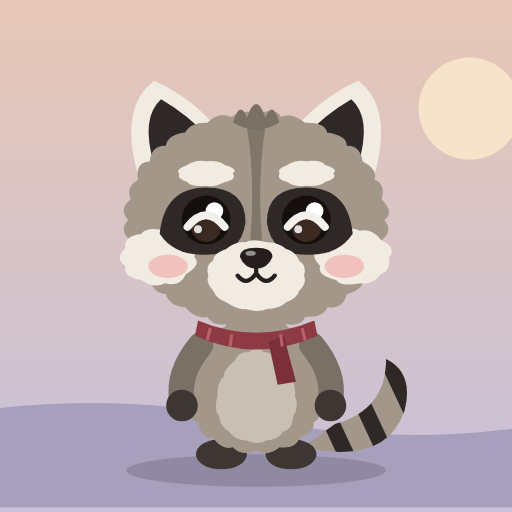
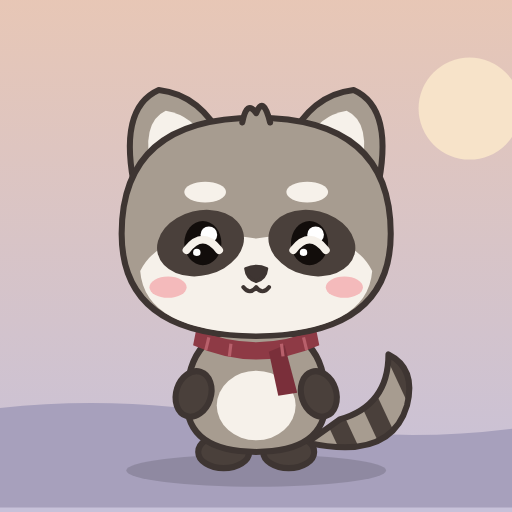
라쿤 얼굴을 만화풍으로 다시 그리기
눈을 낮고 넓게, 코와 입을 작게, 매끈한 윤곽선. 저장 키와 아이템 id는 그대로.

Claude-Session: https://claude.ai/code/session_018356KYRaA4nVB9yHaTF6Rt

Changed region(s): [[0.2188, 0.1562, 0.8125, 0.9062], [0.5312, 0.9062, 0.5938, 0.9375], [0.4062, 0.9062, 0.4688, 0.9375]]

diff --git a/index.html b/index.html
@@ -167,41 +167,40 @@ h2{font-family:var(--font-display);font-weight:400;font-size:20px;margin:0;lette
       <ellipse cx="160" cy="214" rx="56" ry="7" fill="#000" opacity=".14"/>
       <g transform="translate(60 24)"><g id="racc">
         <g class="tail-g">
-          <clipPath id="tailclip3"><path d="M120 180 Q156 188 164 164 Q168 148 156 142 Q156 164 134 170Z"/></clipPath>
-          <path d="M120 180 Q156 188 164 164 Q168 148 156 142 Q156 164 134 170Z" fill="#A39789"/>
-          <g clip-path="url(#tailclip3)" fill="#2E2826"><rect x="130" y="150" width="7" height="44" transform="rotate(-25 133 172)"/><rect x="144" y="140" width="7" height="50" transform="rotate(-25 147 165)"/><rect x="158" y="128" width="7" height="50" transform="rotate(-25 161 153)"/></g>
+          <clipPath id="tailclip4"><path d="M122 178 Q158 186 165 162 Q169 146 157 140 Q157 162 136 168Z"/></clipPath>
+          <path d="M122 178 Q158 186 165 162 Q169 146 157 140 Q157 162 136 168Z" fill="#A79C90"/>
+          <g clip-path="url(#tailclip4)" fill="#4A403B"><rect x="132" y="150" width="8" height="44" transform="rotate(-25 135 172)"/><rect x="147" y="140" width="8" height="50" transform="rotate(-25 150 165)"/><rect x="161" y="126" width="8" height="50" transform="rotate(-25 164 151)"/></g>
+          <path d="M122 178 Q158 186 165 162 Q169 146 157 140 Q157 162 136 168Z" fill="none" stroke="#3E3532" stroke-width="2.6" stroke-linejoin="round"/>
         </g>
         <g class="body-g">
-          <ellipse cx="85" cy="183" rx="11" ry="6.5" fill="#3E3633"/><ellipse cx="115" cy="183" rx="11" ry="6.5" fill="#3E3633"/>
-          <path d="M127.4 152.0 Q131.0 157.0 127.7 161.1 Q128.7 167.1 124.8 169.3 Q125.5 173.3 118.7 175.8 Q117.3 180.8 110.1 180.0 Q104.8 184.3 100.0 181.4 Q94.0 184.2 89.9 180.0 Q85.2 181.4 81.3 175.8 Q76.1 176.3 75.2 169.3 Q70.8 168.5 72.3 161.1 Q68.9 158.8 72.6 152.0 Q71.0 147.6 75.5 142.9 Q76.8 136.4 80.4 134.7 Q80.1 130.0 86.5 128.2 Q88.9 123.6 93.1 124.0 Q97.6 119.1 100.0 122.6 Q102.6 119.9 106.9 124.0 Q110.1 122.7 113.5 128.2 Q118.4 129.8 119.6 134.7 Q124.4 138.3 124.5 142.9 Q128.9 145.5 127.4 152.0Z" fill="#A39789"/>
-          <path d="M116.7 158.0 Q118.7 161.9 116.0 166.5 Q115.6 172.2 111.6 173.3 Q109.9 176.7 104.2 177.1 Q101.3 179.3 95.8 177.1 Q90.4 176.7 88.4 173.3 Q84.4 171.2 84.0 166.5 Q81.6 163.6 83.3 158.0 Q83.0 151.9 86.0 149.5 Q86.1 146.2 90.8 142.7 Q92.0 138.9 96.8 138.9 Q100.9 136.1 103.2 138.9 Q107.8 138.9 109.2 142.7 Q114.1 145.8 114.0 149.5 Q117.3 152.2 116.7 158.0Z" fill="#C9BFB2"/>
-          <path d="M76 136 Q66 148 68 160" stroke="#7B7066" stroke-width="11" stroke-linecap="round" fill="none"/>
-          <path d="M124 136 Q134 148 132 160" stroke="#7B7066" stroke-width="11" stroke-linecap="round" fill="none"/>
-          <circle cx="68" cy="162" r="6.8" fill="#3E3633"/><circle cx="132" cy="162" r="6.8" fill="#3E3633"/>
-          <g id="acc-scarf" hidden transform="translate(100 128) scale(.66) translate(-100 -128)"><path d="M62 124 Q100 140 138 124 L140 134 Q100 152 60 134Z" fill="#8E3A45"/><path d="M118 134 L126 164 L114 166 L108 138Z" fill="#7A2F3A"/><g stroke="#B8606B" stroke-width="2"><path d="M70 129 L68 137"/><path d="M84 133 L83 141"/><path d="M116 133 L117 141"/><path d="M130 129 L132 137"/></g></g>
-          <g id="acc-mug" hidden transform="translate(-8 8)"><rect x="136" y="140" width="20" height="22" rx="4" fill="#E9E1D3"/><path d="M156 145 q8 0 8 6 t-8 6" fill="none" stroke="#E9E1D3" stroke-width="3"/><rect x="136" y="146" width="20" height="4" fill="#C8783A"/><path d="M142 134 q-3 -5 0 -9 M150 134 q-3 -5 0 -9" stroke="#C9CDD6" stroke-width="2" fill="none" stroke-linecap="round"/><circle cx="140" cy="154" r="7" fill="#3E3633"/></g>
-          <path d="M50 66 Q40 34 56 22 Q74 30 86 46Z" fill="#F1EBE1"/><path d="M56 58 Q50 38 59 30 Q71 37 80 47Z" fill="#2E2826"/>
-          <path d="M150 66 Q160 34 144 22 Q126 30 114 46Z" fill="#F1EBE1"/><path d="M144 58 Q150 38 141 30 Q129 37 120 47Z" fill="#2E2826"/>
-          <path d="M155.2 82.0 Q159.2 86.6 154.1 90.8 Q156.1 97.7 151.0 99.3 Q152.5 105.1 145.9 107.2 Q146.8 112.0 139.0 114.0 Q137.6 120.4 130.6 119.7 Q129.4 124.0 121.1 123.9 Q119.2 128.7 110.8 126.4 Q104.8 129.8 100.0 127.3 Q91.8 131.1 89.2 126.4 Q82.0 128.7 78.9 123.9 Q73.9 124.9 69.4 119.7 Q62.8 119.1 61.0 114.0 Q55.4 113.6 54.1 107.2 Q48.8 106.5 49.0 99.3 Q42.6 96.5 45.9 90.8 Q40.6 86.7 44.8 82.0 Q40.6 77.2 45.9 73.2 Q43.6 68.1 49.0 64.7 Q47.9 56.9 54.1 56.8 Q54.8 49.8 61.0 50.0 Q62.0 45.1 69.4 44.3 Q71.6 40.0 78.9 40.1 Q84.0 35.2 89.2 37.6 Q95.8 33.6 100.0 36.7 Q108.0 33.1 110.8 37.6 Q114.8 35.3 121.1 40.1 Q129.6 39.8 130.6 44.3 Q139.2 45.6 139.0 50.0 Q144.8 49.7 145.9 56.8 Q152.5 60.1 151.0 64.7 Q155.9 66.4 154.1 73.2 Q159.8 79.0 155.2 82.0Z" fill="#A39789"/>
-          <path d="M90 40 Q93 30 96 38 Q100 26 104 38 Q107 30 110 40 Q100 46 90 40Z" fill="#7B7066"/>
-          <path d="M73.3 98.0 Q76.7 101.4 69.7 105.4 Q67.1 111.1 60.7 109.3 Q56.0 111.8 50.4 107.9 Q42.6 106.5 43.6 101.9 Q38.8 98.8 43.6 94.1 Q42.8 89.0 50.4 88.1 Q52.9 84.7 60.7 86.7 Q69.1 86.8 69.7 90.6 Q75.8 92.1 73.3 98.0Z" fill="#F1EBE1"/><path d="M157.3 98.0 Q158.0 104.2 153.7 105.4 Q150.1 110.3 144.7 109.3 Q136.5 110.9 134.4 107.9 Q126.1 106.0 127.6 101.9 Q122.4 96.5 127.6 94.1 Q126.9 89.8 134.4 88.1 Q139.9 84.2 144.7 86.7 Q150.1 85.6 153.7 90.6 Q160.9 94.4 157.3 98.0Z" fill="#F1EBE1"/>
-          <path d="M89.9 62.0 Q91.8 64.6 86.5 65.7 Q81.8 68.2 78.4 67.3 Q71.8 67.9 70.3 65.7 Q65.5 64.1 66.9 62.0 Q64.8 60.4 70.3 58.3 Q74.1 56.0 78.4 56.7 Q83.7 56.1 86.5 58.3 Q92.5 60.1 89.9 62.0Z" fill="#F1EBE1"/><path d="M133.1 62.0 Q135.4 63.9 129.7 65.7 Q127.5 67.7 121.6 67.3 Q116.2 68.0 113.5 65.7 Q108.6 64.5 110.1 62.0 Q108.5 60.0 113.5 58.3 Q117.1 56.0 121.6 56.7 Q127.9 56.0 129.7 58.3 Q135.8 60.1 133.1 62.0Z" fill="#F1EBE1"/>
-          <path d="M96 42 Q100 66 97 96 L103 96 Q100 66 104 42Z" fill="#7B7066" opacity=".85"/>
-          <path d="M58.4 88.0 Q60.4 68.0 78.4 68.0 Q95.4 68.0 95.4 83.0 Q93.4 98.0 76.4 97.0 Q64.4 97.0 58.4 88.0 Z" fill="#2E2826"/><path d="M141.6 88.0 Q139.6 68.0 121.6 68.0 Q104.6 68.0 104.6 83.0 Q106.6 98.0 123.6 97.0 Q135.6 97.0 141.6 88.0 Z" fill="#2E2826"/>
-          <path d="M120.6 106.0 Q122.0 109.2 118.6 112.4 Q117.7 115.8 112.9 117.5 Q110.1 120.4 104.6 120.4 Q101.0 122.1 95.4 120.4 Q92.1 120.9 87.1 117.5 Q83.1 116.2 81.4 112.4 Q78.1 108.9 79.4 106.0 Q78.0 101.5 81.4 99.6 Q81.5 96.4 87.1 94.5 Q91.3 91.1 95.4 91.6 Q98.1 90.0 104.6 91.6 Q110.1 91.8 112.9 94.5 Q116.7 95.5 118.6 99.6 Q121.9 101.7 120.6 106.0Z" fill="#F1EBE1"/>
+          <ellipse cx="86" cy="182" rx="11" ry="7" fill="#4A403B" stroke="#3E3532" stroke-width="2.6" stroke-linejoin="round"/><ellipse cx="114" cy="182" rx="11" ry="7" fill="#4A403B" stroke="#3E3532" stroke-width="2.6" stroke-linejoin="round"/>
+          <path d="M70 160 Q70 128 100 128 Q130 128 130 160 Q130 182 100 182 Q70 182 70 160Z" fill="#A79C90" stroke="#3E3532" stroke-width="2.6" stroke-linejoin="round"/>
+          <ellipse cx="100" cy="162" rx="17" ry="15" fill="#F6F1EA"/>
+          <ellipse cx="73" cy="157" rx="7.5" ry="10" fill="#4A403B" stroke="#3E3532" stroke-width="2.6" stroke-linejoin="round" transform="rotate(18 73 157)"/>
+          <ellipse cx="127" cy="157" rx="7.5" ry="10" fill="#4A403B" stroke="#3E3532" stroke-width="2.6" stroke-linejoin="round" transform="rotate(-18 127 157)"/>
+          <g id="acc-scarf" hidden transform="translate(100 132) scale(.68) translate(-100 -128)"><path d="M62 124 Q100 140 138 124 L140 134 Q100 152 60 134Z" fill="#8E3A45"/><path d="M118 134 L126 164 L114 166 L108 138Z" fill="#7A2F3A"/><g stroke="#B8606B" stroke-width="2"><path d="M70 129 L68 137"/><path d="M84 133 L83 141"/><path d="M116 133 L117 141"/><path d="M130 129 L132 137"/></g></g>
+          <g id="acc-mug" hidden transform="translate(-12 6)"><rect x="136" y="140" width="20" height="22" rx="4" fill="#E9E1D3" stroke="#3E3532" stroke-width="2"/><path d="M156 145 q8 0 8 6 t-8 6" fill="none" stroke="#3E3532" stroke-width="2.5"/><rect x="137" y="146" width="18" height="4" fill="#C8783A"/><path d="M142 134 q-3 -5 0 -9 M150 134 q-3 -5 0 -9" stroke="#C9CDD6" stroke-width="2" fill="none" stroke-linecap="round"/><ellipse cx="139" cy="154" rx="7.5" ry="8" fill="#4A403B" stroke="#3E3532" stroke-width="2.6"/></g>
+          <path d="M48 70 Q40 34 58 26 Q76 28 86 48Z" fill="#A79C90" stroke="#3E3532" stroke-width="2.6" stroke-linejoin="round"/><path d="M55 62 Q50 40 61 35 Q73 37 79 49Z" fill="#F6F1EA"/>
+          <path d="M152 70 Q160 34 142 26 Q124 28 114 48Z" fill="#A79C90" stroke="#3E3532" stroke-width="2.6" stroke-linejoin="round"/><path d="M145 62 Q150 40 139 35 Q127 37 121 49Z" fill="#F6F1EA"/>
+          <path d="M42 88 Q42 38 100 38 Q158 38 158 88 Q158 132 100 132 Q42 132 42 88Z" fill="#A79C90" stroke="#3E3532" stroke-width="2.6" stroke-linejoin="round"/>
+          <path d="M94 40 Q96 30 100 36 Q103 28 106 40" fill="#A79C90" stroke="#3E3532" stroke-width="2.6" stroke-linejoin="round" stroke-linecap="round"/>
+          <path d="M50 104 Q60 84 100 90 Q140 84 150 104 Q148 130 100 131 Q52 130 50 104Z" fill="#F6F1EA"/>
+          <ellipse cx="76" cy="92" rx="19" ry="14" fill="#4A403B" transform="rotate(-14 76 92)"/>
+          <ellipse cx="124" cy="92" rx="19" ry="14" fill="#4A403B" transform="rotate(14 124 92)"/>
+          <ellipse cx="78" cy="70" rx="9" ry="4.5" fill="#F6F1EA"/><ellipse cx="122" cy="70" rx="9" ry="4.5" fill="#F6F1EA"/>
           <g class="eyes-open">
-            <circle cx="78.4" cy="82" r="10.5" fill="#140F0D"/><circle cx="121.6" cy="82" r="10.5" fill="#140F0D"/>
-            <circle cx="78.4" cy="85" r="6.5" fill="#3A2A22"/><circle cx="121.6" cy="85" r="6.5" fill="#3A2A22"/>
-            <circle cx="82.0" cy="78.2" r="3.8" fill="#fff"/><circle cx="125.19999999999999" cy="78.2" r="3.8" fill="#fff"/>
-            <circle cx="74.9" cy="86" r="1.7" fill="#fff" opacity=".85"/><circle cx="118.1" cy="86" r="1.7" fill="#fff" opacity=".85"/>
+            <ellipse cx="77" cy="92" rx="8" ry="9.5" fill="#120D0B"/><ellipse cx="123" cy="92" rx="8" ry="9.5" fill="#120D0B"/>
+            <circle cx="79.6" cy="88.4" r="3.6" fill="#fff"/><circle cx="125.6" cy="88.4" r="3.6" fill="#fff"/>
+            <circle cx="74.4" cy="96" r="1.6" fill="#fff"/><circle cx="120.4" cy="96" r="1.6" fill="#fff"/>
           </g>
-          <g class="eyes-happy" fill="none" stroke="#F4F1EC" stroke-width="3.4" stroke-linecap="round"><path d="M70.4 85 Q78.4 75 86.4 85"/><path d="M113.6 85 Q121.6 75 129.6 85"/></g>
-          <path d="M93 98 Q93 94 100 94 Q107 94 107 98 Q105 103 100 103 Q95 103 93 98Z" fill="#241E1C"/>
-          <ellipse cx="97.6" cy="96.4" rx="2.2" ry="1.1" fill="#fff" opacity=".5"/>
-          <path d="M100 103 L100 105 M92 106 Q96 111 100 105 Q104 111 108 106" fill="none" stroke="#241E1C" stroke-width="1.8" stroke-linecap="round" stroke-linejoin="round"/>
-          <ellipse cx="62" cy="102" rx="8.5" ry="5" fill="#F0A1A1" opacity=".55"/><ellipse cx="138" cy="102" rx="8.5" ry="5" fill="#F0A1A1" opacity=".55"/>
-          <g transform="translate(100 82) scale(1.08) translate(-100 -88)">
+          <g class="eyes-happy" fill="none" stroke="#F6F1EA" stroke-width="3.4" stroke-linecap="round"><path d="M70 95 Q77 86 84 95"/><path d="M116 95 Q123 86 130 95"/></g>
+          <ellipse cx="62" cy="111" rx="8" ry="4.6" fill="#F4A3A6" opacity=".7"/><ellipse cx="138" cy="111" rx="8" ry="4.6" fill="#F4A3A6" opacity=".7"/>
+          <path d="M95.5 103 Q100 101 104.5 103 Q104 107.5 100 108.5 Q96 107.5 95.5 103Z" fill="#3E3532" stroke="#3E3532" stroke-width="1.4" stroke-linejoin="round"/>
+          <path d="M94.5 111 Q97.3 114.5 100 111 Q102.7 114.5 105.5 111" fill="none" stroke="#3E3532" stroke-width="1.8" stroke-linecap="round" stroke-linejoin="round"/>
+          <g transform="translate(100 92) scale(1.15) translate(-100 -88)">
             <g id="acc-glasses" hidden fill="none" stroke="#C99B4A" stroke-width="2.4"><circle cx="80" cy="88" r="13"/><circle cx="120" cy="88" r="13"/><path d="M93 87 Q100 83 107 87"/><path d="M67 86 L52 82"/><path d="M133 86 L148 82"/></g>
+          </g>
+          <g transform="translate(100 84) scale(1.12) translate(-100 -88)">
             <g id="acc-beanie" hidden><path d="M50 70 Q54 26 100 24 Q146 26 150 70Z" fill="#5E7D6A"/><rect x="46" y="62" width="108" height="16" rx="8" fill="#4B6957"/><g stroke="#6F907B" stroke-width="2"><path d="M70 34 L66 62"/><path d="M86 28 L84 62"/><path d="M100 26 L100 62"/><path d="M114 28 L116 62"/><path d="M130 34 L134 62"/></g><circle cx="100" cy="22" r="10" fill="#E9E1D3"/></g>
             <g id="acc-headphones" hidden><path d="M46 84 Q46 30 100 30 Q154 30 154 84" fill="none" stroke="#2E3340" stroke-width="7" stroke-linecap="round"/><rect x="36" y="76" width="18" height="28" rx="7" fill="#D98A2B"/><rect x="146" y="76" width="18" height="28" rx="7" fill="#D98A2B"/></g>
             <g id="acc-crown" hidden><path d="M76 50 L80 28 L91 40 L100 22 L109 40 L120 28 L124 50Z" fill="#E7B53C" stroke="#B9862A" stroke-width="1.5" stroke-linejoin="round"/><circle cx="100" cy="40" r="3" fill="#C94E5B"/><circle cx="86" cy="45" r="2" fill="#4E86C9"/><circle cx="114" cy="45" r="2" fill="#4E86C9"/></g>

diff --git a/src/app.html b/src/app.html
@@ -156,41 +156,40 @@ h2{font-family:var(--font-display);font-weight:400;font-size:20px;margin:0;lette
       <ellipse cx="160" cy="214" rx="56" ry="7" fill="#000" opacity=".14"/>
       <g transform="translate(60 24)"><g id="racc">
         <g class="tail-g">
-          <clipPath id="tailclip3"><path d="M120 180 Q156 188 164 164 Q168 148 156 142 Q156 164 134 170Z"/></clipPath>
-          <path d="M120 180 Q156 188 164 164 Q168 148 156 142 Q156 164 134 170Z" fill="#A39789"/>
-          <g clip-path="url(#tailclip3)" fill="#2E2826"><rect x="130" y="150" width="7" height="44" transform="rotate(-25 133 172)"/><rect x="144" y="140" width="7" height="50" transform="rotate(-25 147 165)"/><rect x="158" y="128" width="7" height="50" transform="rotate(-25 161 153)"/></g>
+          <clipPath id="tailclip4"><path d="M122 178 Q158 186 165 162 Q169 146 157 140 Q157 162 136 168Z"/></clipPath>
+          <path d="M122 178 Q158 186 165 162 Q169 146 157 140 Q157 162 136 168Z" fill="#A79C90"/>
+          <g clip-path="url(#tailclip4)" fill="#4A403B"><rect x="132" y="150" width="8" height="44" transform="rotate(-25 135 172)"/><rect x="147" y="140" width="8" height="50" transform="rotate(-25 150 165)"/><rect x="161" y="126" width="8" height="50" transform="rotate(-25 164 151)"/></g>
+          <path d="M122 178 Q158 186 165 162 Q169 146 157 140 Q157 162 136 168Z" fill="none" stroke="#3E3532" stroke-width="2.6" stroke-linejoin="round"/>
         </g>
         <g class="body-g">
-          <ellipse cx="85" cy="183" rx="11" ry="6.5" fill="#3E3633"/><ellipse cx="115" cy="183" rx="11" ry="6.5" fill="#3E3633"/>
-          <path d="M127.4 152.0 Q131.0 157.0 127.7 161.1 Q128.7 167.1 124.8 169.3 Q125.5 173.3 118.7 175.8 Q117.3 180.8 110.1 180.0 Q104.8 184.3 100.0 181.4 Q94.0 184.2 89.9 180.0 Q85.2 181.4 81.3 175.8 Q76.1 176.3 75.2 169.3 Q70.8 168.5 72.3 161.1 Q68.9 158.8 72.6 152.0 Q71.0 147.6 75.5 142.9 Q76.8 136.4 80.4 134.7 Q80.1 130.0 86.5 128.2 Q88.9 123.6 93.1 124.0 Q97.6 119.1 100.0 122.6 Q102.6 119.9 106.9 124.0 Q110.1 122.7 113.5 128.2 Q118.4 129.8 119.6 134.7 Q124.4 138.3 124.5 142.9 Q128.9 145.5 127.4 152.0Z" fill="#A39789"/>
-          <path d="M116.7 158.0 Q118.7 161.9 116.0 166.5 Q115.6 172.2 111.6 173.3 Q109.9 176.7 104.2 177.1 Q101.3 179.3 95.8 177.1 Q90.4 176.7 88.4 173.3 Q84.4 171.2 84.0 166.5 Q81.6 163.6 83.3 158.0 Q83.0 151.9 86.0 149.5 Q86.1 146.2 90.8 142.7 Q92.0 138.9 96.8 138.9 Q100.9 136.1 103.2 138.9 Q107.8 138.9 109.2 142.7 Q114.1 145.8 114.0 149.5 Q117.3 152.2 116.7 158.0Z" fill="#C9BFB2"/>
-          <path d="M76 136 Q66 148 68 160" stroke="#7B7066" stroke-width="11" stroke-linecap="round" fill="none"/>
-          <path d="M124 136 Q134 148 132 160" stroke="#7B7066" stroke-width="11" stroke-linecap="round" fill="none"/>
-          <circle cx="68" cy="162" r="6.8" fill="#3E3633"/><circle cx="132" cy="162" r="6.8" fill="#3E3633"/>
-          <g id="acc-scarf" hidden transform="translate(100 128) scale(.66) translate(-100 -128)"><path d="M62 124 Q100 140 138 124 L140 134 Q100 152 60 134Z" fill="#8E3A45"/><path d="M118 134 L126 164 L114 166 L108 138Z" fill="#7A2F3A"/><g stroke="#B8606B" stroke-width="2"><path d="M70 129 L68 137"/><path d="M84 133 L83 141"/><path d="M116 133 L117 141"/><path d="M130 129 L132 137"/></g></g>
-          <g id="acc-mug" hidden transform="translate(-8 8)"><rect x="136" y="140" width="20" height="22" rx="4" fill="#E9E1D3"/><path d="M156 145 q8 0 8 6 t-8 6" fill="none" stroke="#E9E1D3" stroke-width="3"/><rect x="136" y="146" width="20" height="4" fill="#C8783A"/><path d="M142 134 q-3 -5 0 -9 M150 134 q-3 -5 0 -9" stroke="#C9CDD6" stroke-width="2" fill="none" stroke-linecap="round"/><circle cx="140" cy="154" r="7" fill="#3E3633"/></g>
-          <path d="M50 66 Q40 34 56 22 Q74 30 86 46Z" fill="#F1EBE1"/><path d="M56 58 Q50 38 59 30 Q71 37 80 47Z" fill="#2E2826"/>
-          <path d="M150 66 Q160 34 144 22 Q126 30 114 46Z" fill="#F1EBE1"/><path d="M144 58 Q150 38 141 30 Q129 37 120 47Z" fill="#2E2826"/>
-          <path d="M155.2 82.0 Q159.2 86.6 154.1 90.8 Q156.1 97.7 151.0 99.3 Q152.5 105.1 145.9 107.2 Q146.8 112.0 139.0 114.0 Q137.6 120.4 130.6 119.7 Q129.4 124.0 121.1 123.9 Q119.2 128.7 110.8 126.4 Q104.8 129.8 100.0 127.3 Q91.8 131.1 89.2 126.4 Q82.0 128.7 78.9 123.9 Q73.9 124.9 69.4 119.7 Q62.8 119.1 61.0 114.0 Q55.4 113.6 54.1 107.2 Q48.8 106.5 49.0 99.3 Q42.6 96.5 45.9 90.8 Q40.6 86.7 44.8 82.0 Q40.6 77.2 45.9 73.2 Q43.6 68.1 49.0 64.7 Q47.9 56.9 54.1 56.8 Q54.8 49.8 61.0 50.0 Q62.0 45.1 69.4 44.3 Q71.6 40.0 78.9 40.1 Q84.0 35.2 89.2 37.6 Q95.8 33.6 100.0 36.7 Q108.0 33.1 110.8 37.6 Q114.8 35.3 121.1 40.1 Q129.6 39.8 130.6 44.3 Q139.2 45.6 139.0 50.0 Q144.8 49.7 145.9 56.8 Q152.5 60.1 151.0 64.7 Q155.9 66.4 154.1 73.2 Q159.8 79.0 155.2 82.0Z" fill="#A39789"/>
-          <path d="M90 40 Q93 30 96 38 Q100 26 104 38 Q107 30 110 40 Q100 46 90 40Z" fill="#7B7066"/>
-          <path d="M73.3 98.0 Q76.7 101.4 69.7 105.4 Q67.1 111.1 60.7 109.3 Q56.0 111.8 50.4 107.9 Q42.6 106.5 43.6 101.9 Q38.8 98.8 43.6 94.1 Q42.8 89.0 50.4 88.1 Q52.9 84.7 60.7 86.7 Q69.1 86.8 69.7 90.6 Q75.8 92.1 73.3 98.0Z" fill="#F1EBE1"/><path d="M157.3 98.0 Q158.0 104.2 153.7 105.4 Q150.1 110.3 144.7 109.3 Q136.5 110.9 134.4 107.9 Q126.1 106.0 127.6 101.9 Q122.4 96.5 127.6 94.1 Q126.9 89.8 134.4 88.1 Q139.9 84.2 144.7 86.7 Q150.1 85.6 153.7 90.6 Q160.9 94.4 157.3 98.0Z" fill="#F1EBE1"/>
-          <path d="M89.9 62.0 Q91.8 64.6 86.5 65.7 Q81.8 68.2 78.4 67.3 Q71.8 67.9 70.3 65.7 Q65.5 64.1 66.9 62.0 Q64.8 60.4 70.3 58.3 Q74.1 56.0 78.4 56.7 Q83.7 56.1 86.5 58.3 Q92.5 60.1 89.9 62.0Z" fill="#F1EBE1"/><path d="M133.1 62.0 Q135.4 63.9 129.7 65.7 Q127.5 67.7 121.6 67.3 Q116.2 68.0 113.5 65.7 Q108.6 64.5 110.1 62.0 Q108.5 60.0 113.5 58.3 Q117.1 56.0 121.6 56.7 Q127.9 56.0 129.7 58.3 Q135.8 60.1 133.1 62.0Z" fill="#F1EBE1"/>
-          <path d="M96 42 Q100 66 97 96 L103 96 Q100 66 104 42Z" fill="#7B7066" opacity=".85"/>
-          <path d="M58.4 88.0 Q60.4 68.0 78.4 68.0 Q95.4 68.0 95.4 83.0 Q93.4 98.0 76.4 97.0 Q64.4 97.0 58.4 88.0 Z" fill="#2E2826"/><path d="M141.6 88.0 Q139.6 68.0 121.6 68.0 Q104.6 68.0 104.6 83.0 Q106.6 98.0 123.6 97.0 Q135.6 97.0 141.6 88.0 Z" fill="#2E2826"/>
-          <path d="M120.6 106.0 Q122.0 109.2 118.6 112.4 Q117.7 115.8 112.9 117.5 Q110.1 120.4 104.6 120.4 Q101.0 122.1 95.4 120.4 Q92.1 120.9 87.1 117.5 Q83.1 116.2 81.4 112.4 Q78.1 108.9 79.4 106.0 Q78.0 101.5 81.4 99.6 Q81.5 96.4 87.1 94.5 Q91.3 91.1 95.4 91.6 Q98.1 90.0 104.6 91.6 Q110.1 91.8 112.9 94.5 Q116.7 95.5 118.6 99.6 Q121.9 101.7 120.6 106.0Z" fill="#F1EBE1"/>
+          <ellipse cx="86" cy="182" rx="11" ry="7" fill="#4A403B" stroke="#3E3532" stroke-width="2.6" stroke-linejoin="round"/><ellipse cx="114" cy="182" rx="11" ry="7" fill="#4A403B" stroke="#3E3532" stroke-width="2.6" stroke-linejoin="round"/>
+          <path d="M70 160 Q70 128 100 128 Q130 128 130 160 Q130 182 100 182 Q70 182 70 160Z" fill="#A79C90" stroke="#3E3532" stroke-width="2.6" stroke-linejoin="round"/>
+          <ellipse cx="100" cy="162" rx="17" ry="15" fill="#F6F1EA"/>
+          <ellipse cx="73" cy="157" rx="7.5" ry="10" fill="#4A403B" stroke="#3E3532" stroke-width="2.6" stroke-linejoin="round" transform="rotate(18 73 157)"/>
+          <ellipse cx="127" cy="157" rx="7.5" ry="10" fill="#4A403B" stroke="#3E3532" stroke-width="2.6" stroke-linejoin="round" transform="rotate(-18 127 157)"/>
+          <g id="acc-scarf" hidden transform="translate(100 132) scale(.68) translate(-100 -128)"><path d="M62 124 Q100 140 138 124 L140 134 Q100 152 60 134Z" fill="#8E3A45"/><path d="M118 134 L126 164 L114 166 L108 138Z" fill="#7A2F3A"/><g stroke="#B8606B" stroke-width="2"><path d="M70 129 L68 137"/><path d="M84 133 L83 141"/><path d="M116 133 L117 141"/><path d="M130 129 L132 137"/></g></g>
+          <g id="acc-mug" hidden transform="translate(-12 6)"><rect x="136" y="140" width="20" height="22" rx="4" fill="#E9E1D3" stroke="#3E3532" stroke-width="2"/><path d="M156 145 q8 0 8 6 t-8 6" fill="none" stroke="#3E3532" stroke-width="2.5"/><rect x="137" y="146" width="18" height="4" fill="#C8783A"/><path d="M142 134 q-3 -5 0 -9 M150 134 q-3 -5 0 -9" stroke="#C9CDD6" stroke-width="2" fill="none" stroke-linecap="round"/><ellipse cx="139" cy="154" rx="7.5" ry="8" fill="#4A403B" stroke="#3E3532" stroke-width="2.6"/></g>
+          <path d="M48 70 Q40 34 58 26 Q76 28 86 48Z" fill="#A79C90" stroke="#3E3532" stroke-width="2.6" stroke-linejoin="round"/><path d="M55 62 Q50 40 61 35 Q73 37 79 49Z" fill="#F6F1EA"/>
+          <path d="M152 70 Q160 34 142 26 Q124 28 114 48Z" fill="#A79C90" stroke="#3E3532" stroke-width="2.6" stroke-linejoin="round"/><path d="M145 62 Q150 40 139 35 Q127 37 121 49Z" fill="#F6F1EA"/>
+          <path d="M42 88 Q42 38 100 38 Q158 38 158 88 Q158 132 100 132 Q42 132 42 88Z" fill="#A79C90" stroke="#3E3532" stroke-width="2.6" stroke-linejoin="round"/>
+          <path d="M94 40 Q96 30 100 36 Q103 28 106 40" fill="#A79C90" stroke="#3E3532" stroke-width="2.6" stroke-linejoin="round" stroke-linecap="round"/>
+          <path d="M50 104 Q60 84 100 90 Q140 84 150 104 Q148 130 100 131 Q52 130 50 104Z" fill="#F6F1EA"/>
+          <ellipse cx="76" cy="92" rx="19" ry="14" fill="#4A403B" transform="rotate(-14 76 92)"/>
+          <ellipse cx="124" cy="92" rx="19" ry="14" fill="#4A403B" transform="rotate(14 124 92)"/>
+          <ellipse cx="78" cy="70" rx="9" ry="4.5" fill="#F6F1EA"/><ellipse cx="122" cy="70" rx="9" ry="4.5" fill="#F6F1EA"/>
           <g class="eyes-open">
-            <circle cx="78.4" cy="82" r="10.5" fill="#140F0D"/><circle cx="121.6" cy="82" r="10.5" fill="#140F0D"/>
-            <circle cx="78.4" cy="85" r="6.5" fill="#3A2A22"/><circle cx="121.6" cy="85" r="6.5" fill="#3A2A22"/>
-            <circle cx="82.0" cy="78.2" r="3.8" fill="#fff"/><circle cx="125.19999999999999" cy="78.2" r="3.8" fill="#fff"/>
-            <circle cx="74.9" cy="86" r="1.7" fill="#fff" opacity=".85"/><circle cx="118.1" cy="86" r="1.7" fill="#fff" opacity=".85"/>
+            <ellipse cx="77" cy="92" rx="8" ry="9.5" fill="#120D0B"/><ellipse cx="123" cy="92" rx="8" ry="9.5" fill="#120D0B"/>
+            <circle cx="79.6" cy="88.4" r="3.6" fill="#fff"/><circle cx="125.6" cy="88.4" r="3.6" fill="#fff"/>
+            <circle cx="74.4" cy="96" r="1.6" fill="#fff"/><circle cx="120.4" cy="96" r="1.6" fill="#fff"/>
           </g>
-          <g class="eyes-happy" fill="none" stroke="#F4F1EC" stroke-width="3.4" stroke-linecap="round"><path d="M70.4 85 Q78.4 75 86.4 85"/><path d="M113.6 85 Q121.6 75 129.6 85"/></g>
-          <path d="M93 98 Q93 94 100 94 Q107 94 107 98 Q105 103 100 103 Q95 103 93 98Z" fill="#241E1C"/>
-          <ellipse cx="97.6" cy="96.4" rx="2.2" ry="1.1" fill="#fff" opacity=".5"/>
-          <path d="M100 103 L100 105 M92 106 Q96 111 100 105 Q104 111 108 106" fill="none" stroke="#241E1C" stroke-width="1.8" stroke-linecap="round" stroke-linejoin="round"/>
-          <ellipse cx="62" cy="102" rx="8.5" ry="5" fill="#F0A1A1" opacity=".55"/><ellipse cx="138" cy="102" rx="8.5" ry="5" fill="#F0A1A1" opacity=".55"/>
-          <g transform="translate(100 82) scale(1.08) translate(-100 -88)">
+          <g class="eyes-happy" fill="none" stroke="#F6F1EA" stroke-width="3.4" stroke-linecap="round"><path d="M70 95 Q77 86 84 95"/><path d="M116 95 Q123 86 130 95"/></g>
+          <ellipse cx="62" cy="111" rx="8" ry="4.6" fill="#F4A3A6" opacity=".7"/><ellipse cx="138" cy="111" rx="8" ry="4.6" fill="#F4A3A6" opacity=".7"/>
+          <path d="M95.5 103 Q100 101 104.5 103 Q104 107.5 100 108.5 Q96 107.5 95.5 103Z" fill="#3E3532" stroke="#3E3532" stroke-width="1.4" stroke-linejoin="round"/>
+          <path d="M94.5 111 Q97.3 114.5 100 111 Q102.7 114.5 105.5 111" fill="none" stroke="#3E3532" stroke-width="1.8" stroke-linecap="round" stroke-linejoin="round"/>
+          <g transform="translate(100 92) scale(1.15) translate(-100 -88)">
             <g id="acc-glasses" hidden fill="none" stroke="#C99B4A" stroke-width="2.4"><circle cx="80" cy="88" r="13"/><circle cx="120" cy="88" r="13"/><path d="M93 87 Q100 83 107 87"/><path d="M67 86 L52 82"/><path d="M133 86 L148 82"/></g>
+          </g>
+          <g transform="translate(100 84) scale(1.12) translate(-100 -88)">
             <g id="acc-beanie" hidden><path d="M50 70 Q54 26 100 24 Q146 26 150 70Z" fill="#5E7D6A"/><rect x="46" y="62" width="108" height="16" rx="8" fill="#4B6957"/><g stroke="#6F907B" stroke-width="2"><path d="M70 34 L66 62"/><path d="M86 28 L84 62"/><path d="M100 26 L100 62"/><path d="M114 28 L116 62"/><path d="M130 34 L134 62"/></g><circle cx="100" cy="22" r="10" fill="#E9E1D3"/></g>
             <g id="acc-headphones" hidden><path d="M46 84 Q46 30 100 30 Q154 30 154 84" fill="none" stroke="#2E3340" stroke-width="7" stroke-linecap="round"/><rect x="36" y="76" width="18" height="28" rx="7" fill="#D98A2B"/><rect x="146" y="76" width="18" height="28" rx="7" fill="#D98A2B"/></g>
             <g id="acc-crown" hidden><path d="M76 50 L80 28 L91 40 L100 22 L109 40 L120 28 L124 50Z" fill="#E7B53C" stroke="#B9862A" stroke-width="1.5" stroke-linejoin="round"/><circle cx="100" cy="40" r="3" fill="#C94E5B"/><circle cx="86" cy="45" r="2" fill="#4E86C9"/><circle cx="114" cy="45" r="2" fill="#4E86C9"/></g>
